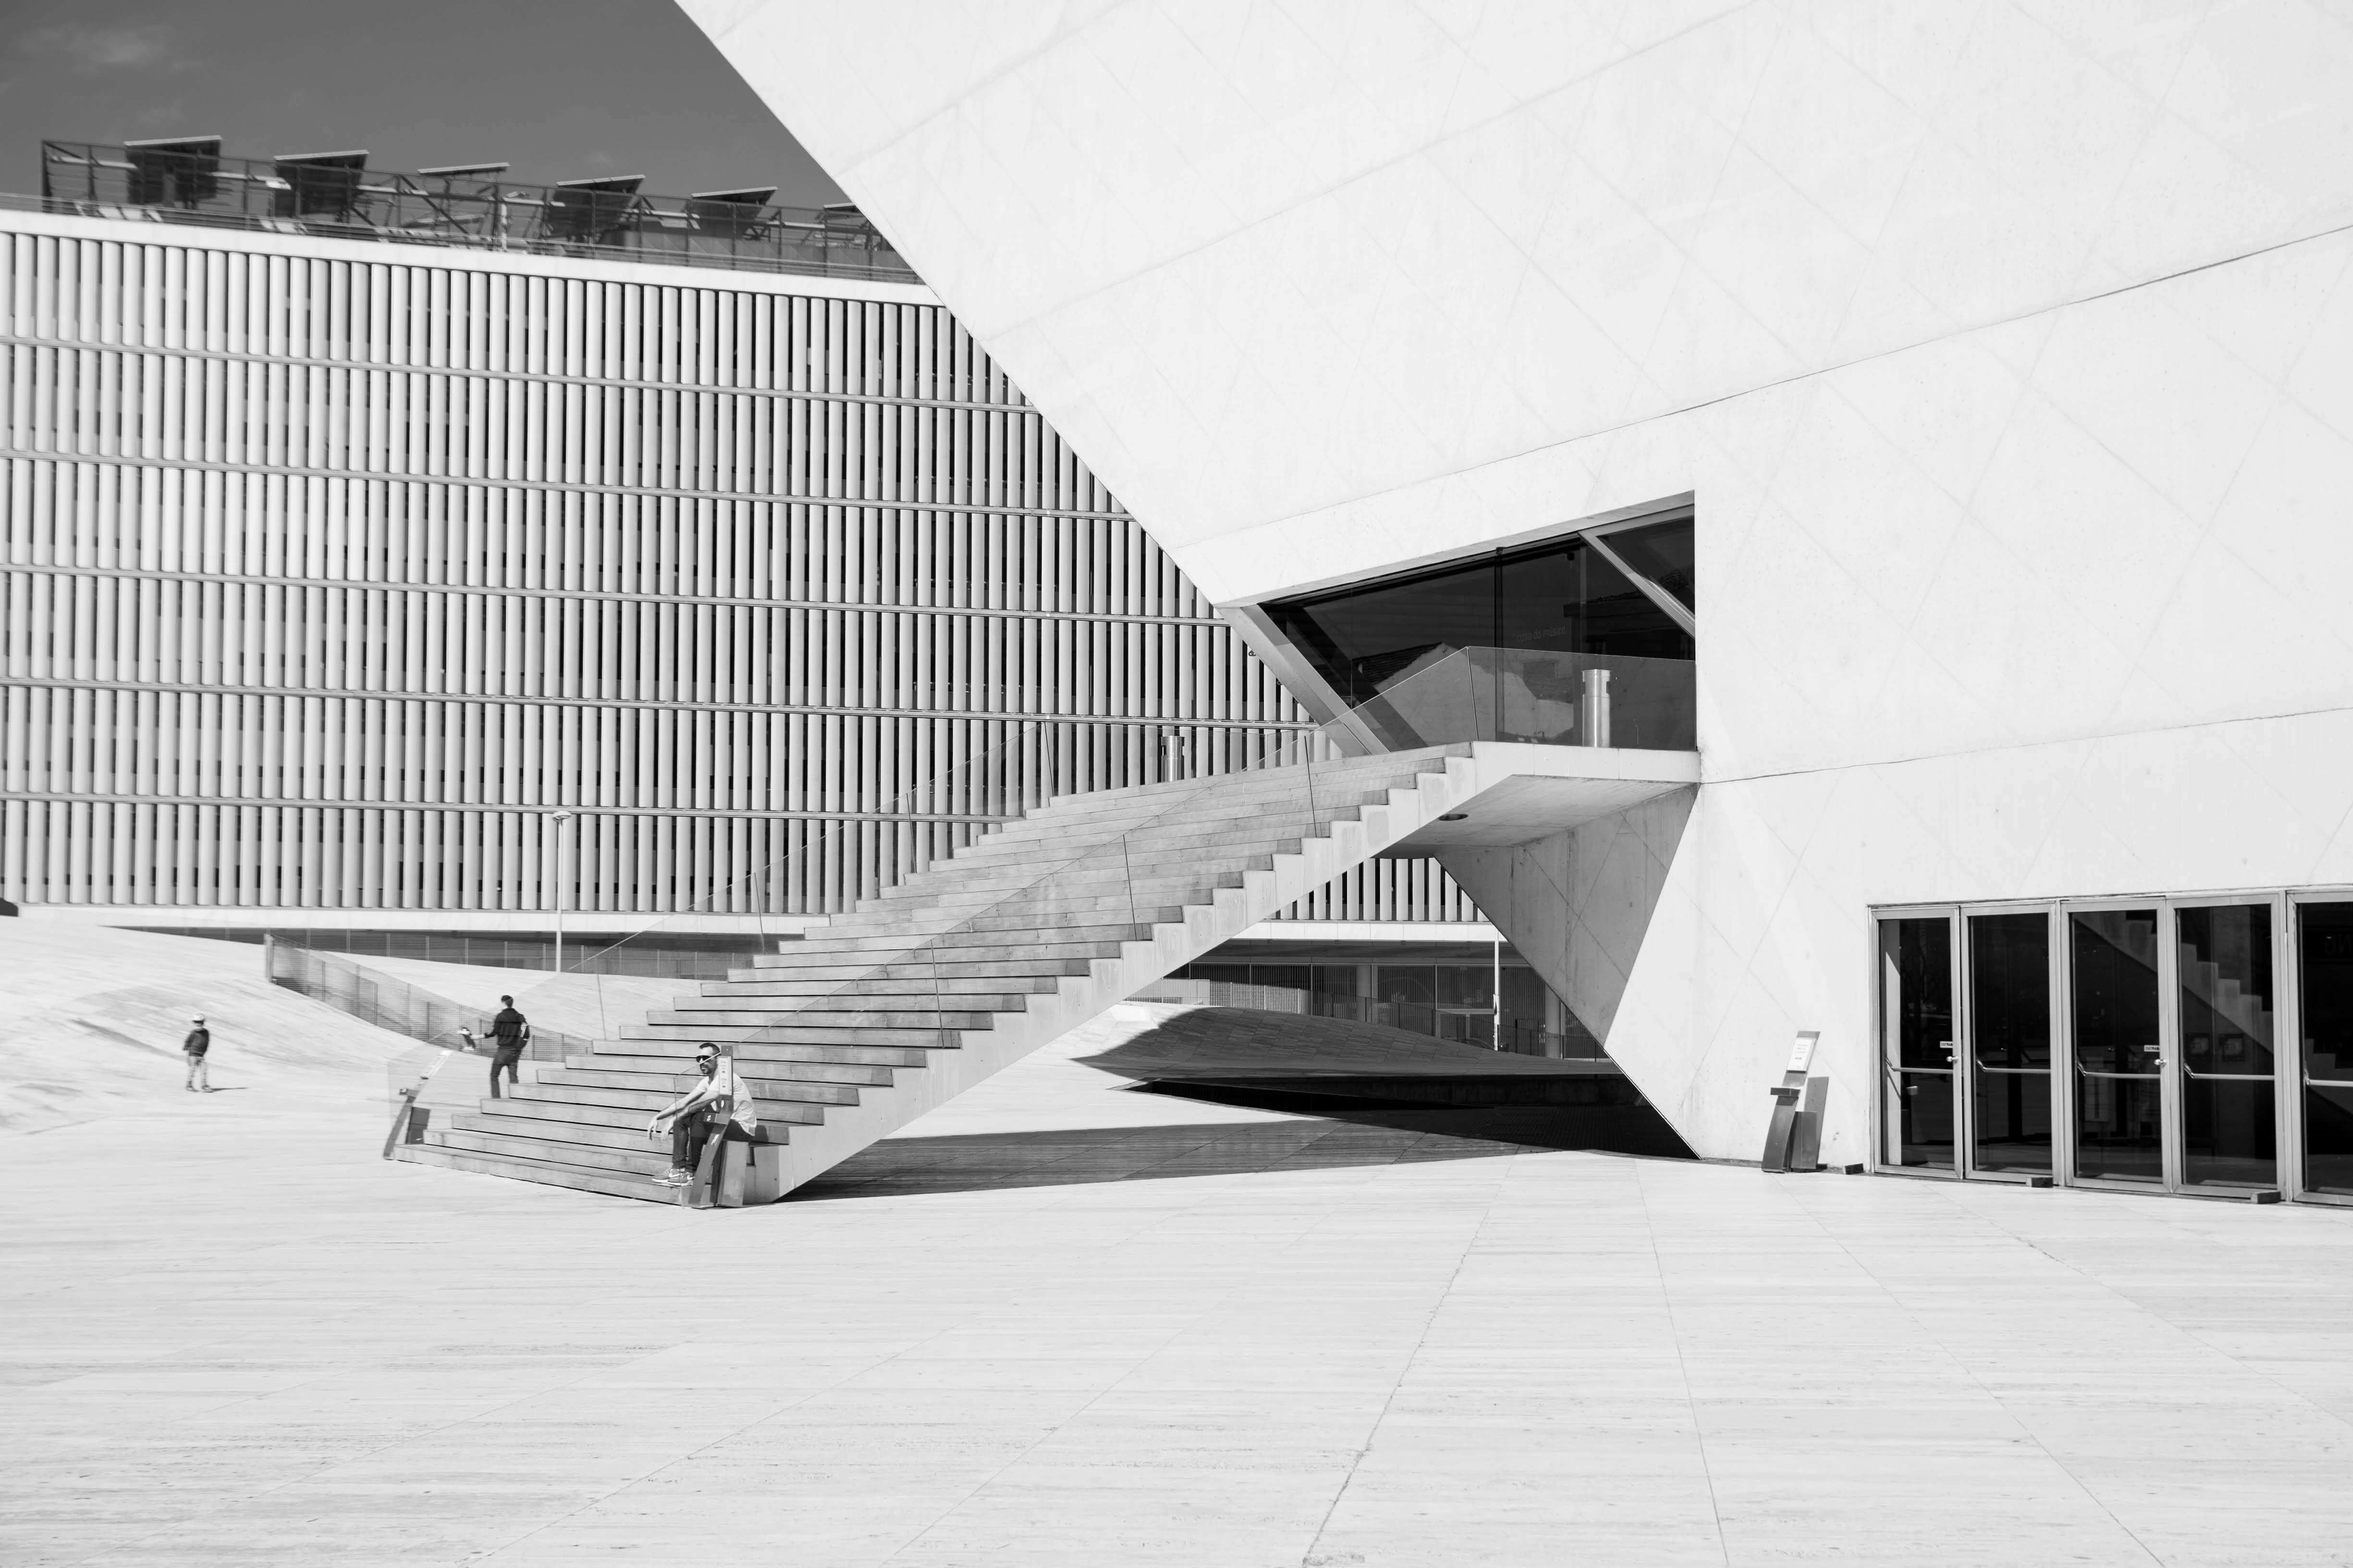
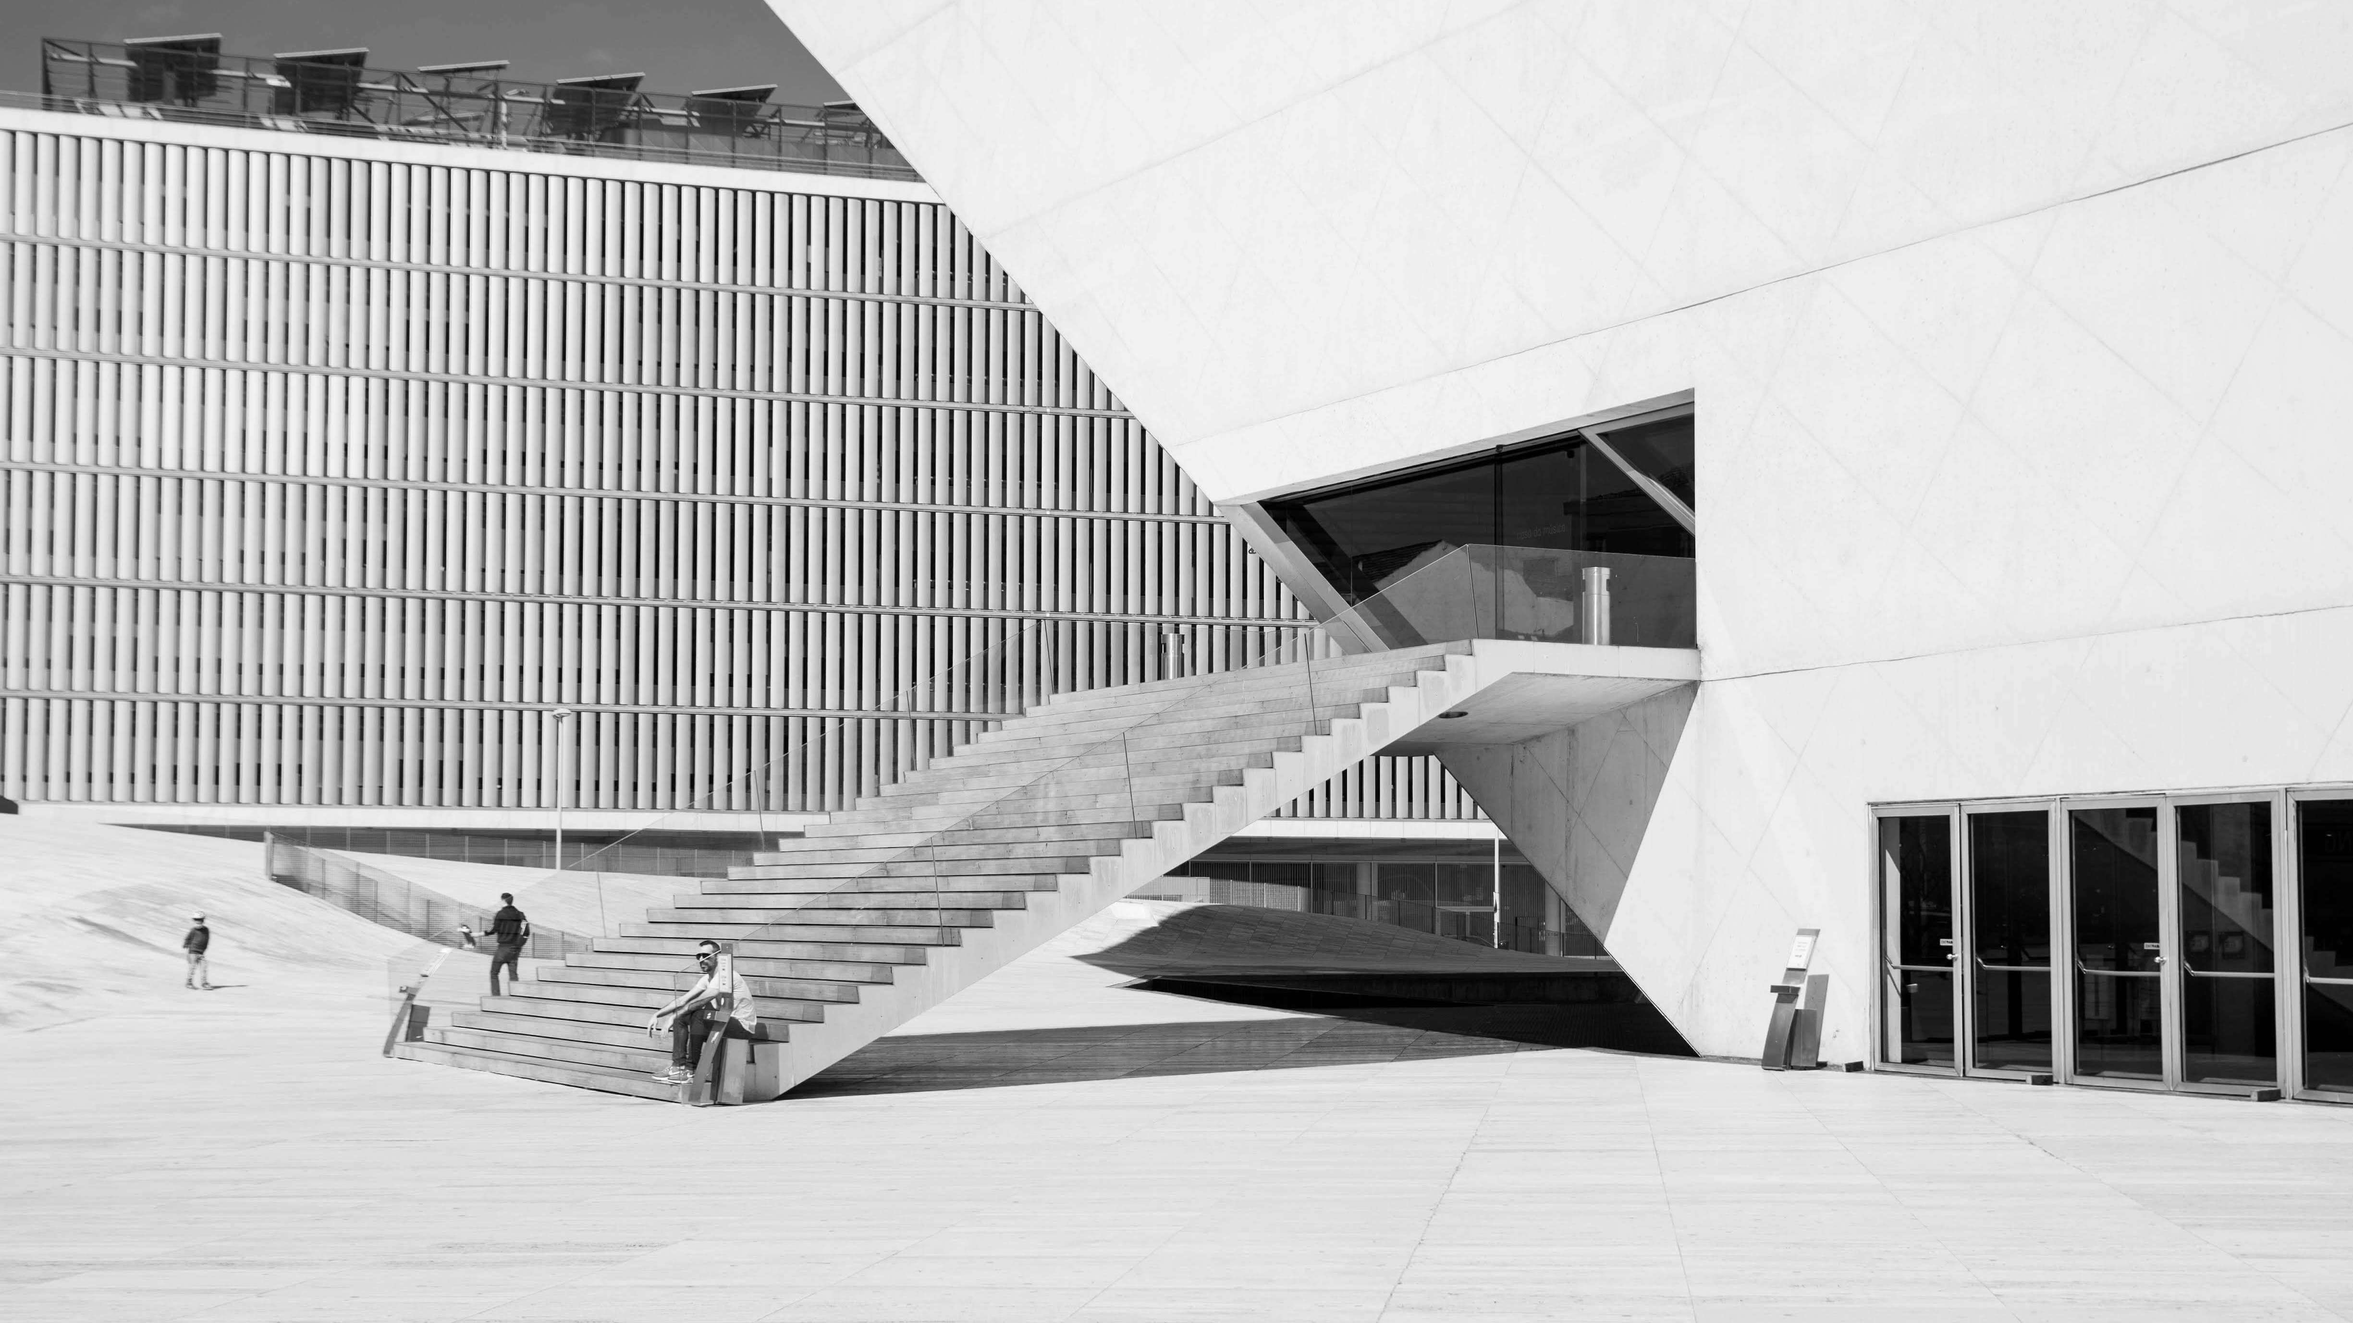
grayscale image on section

diff --git a/_layouts/section.html b/_layouts/section.html
@@ -7,7 +7,7 @@ layout: default
 	<article class=" w3-card-2 w3-round-large">
 		<div class="w3-container">
 			<h2>{{page.title}}</h2>
-			<img src="{{page.img}}" alt="{{page.title}}" class="w3-image">
+			<img src="{{page.img}}" alt="{{page.title}}" class="w3-image w3-grayscale-min">
 			<p></p>
 		</div>
 	</article>

diff --git a/_sass/main.scss b/_sass/main.scss
@@ -10,3 +10,9 @@
   width: 100%;
   height: 100%;
 }
+.jl-image{
+  display: block;
+  margin-left: auto;
+  margin-right: auto;
+  width: 50%;
+}
